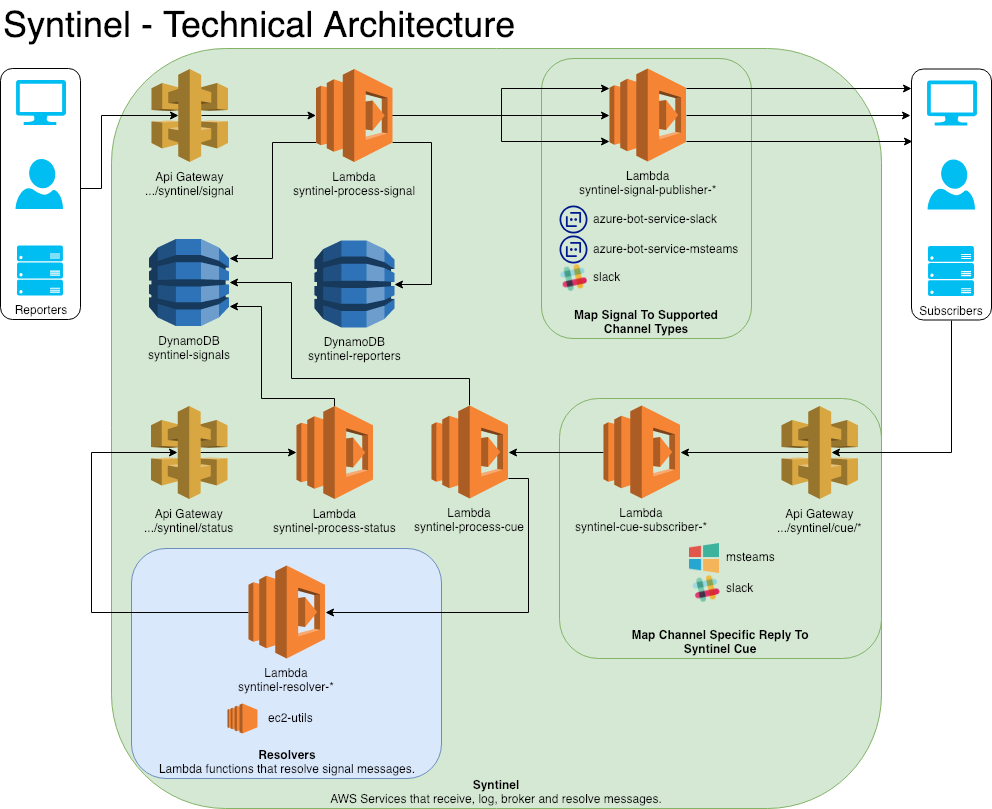
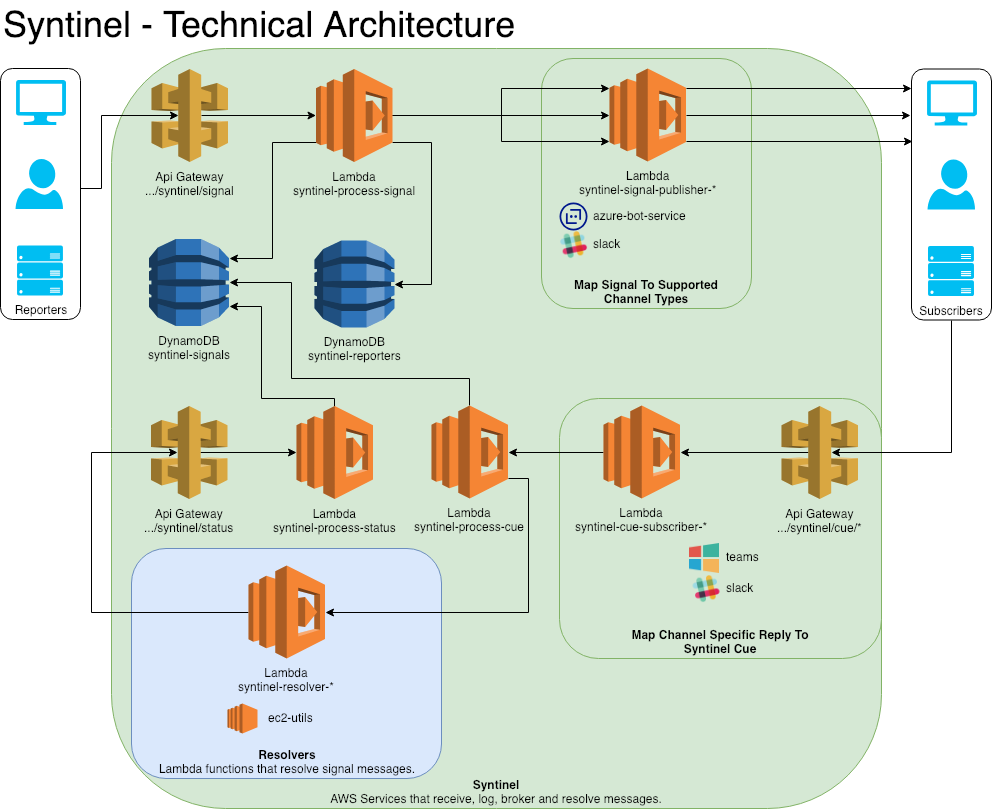
- Added updated PNG file for Techincal Architecture. - Updated AzureBotService Publisher To Create MSTeams Forms.

Changed region(s): [[0.5625, 0.2472, 0.7188, 0.4326], [0.7188, 0.6799, 0.7812, 0.7108]]

diff --git a/scripts/Mapping Layer/syntinel-signal-publisher-azure-bot-service.py b/scripts/Mapping Layer/syntinel-signal-publisher-azure-bot-service.py
@@ -15,7 +15,7 @@ def lambda_handler(event, context):
         token = channel.get('config', {}).get('bearerToken')
         target = channel.get('target')
         conversationId = getConversationId(token)
-        body = CreateSlackMessage(signalId, signal, target)
+        body = CreateAzureBotMessage(signalId, signal, target)
         botReply = sendMessage(conversationId, token, body)
 
     reply = {
@@ -57,31 +57,54 @@ def sendMessage(conversationId, token, body):
 
     return content
     
-def CreateSlackMessage(signalId, signal, recipient):
-    mainTitle = signal.get('name', "Alert") + " : " + signal.get('description')
-    
+def CreateAzureBotMessage(signalId, signal, recipient):
     message = {
         "type": "message",
         "from": {
             "id": signalId
         },
         "text": "notify " + recipient,
-        "value": {
-            "text": mainTitle,
-            "attachments": [],
-            "valueType": "application/json"
-        }
+        "valueType": "application/json"
     }
-    
-    cues = signal.get('cues', {})
-    attachments = message.get('value').get('attachments')
-    for cue in cues:
-        attachment = CreateAttachment(signalId, cue, cues.get(cue))
-        attachments.append(attachment)
+
+    targetArray = recipient.partition("@")
+    if len(targetArray) == 3:
+        channelType = targetArray[2].lower()
+    else:
+        raise Exception("Unable To Determine Channel Type For Azure Bot Service Recipient [" + recipient + "].") 
+
+    if channelType == 'slack':
+        value = CreateSlackMessage(signalId, signal, recipient)
+    elif channelType == 'msteams':
+        value = CreateTeamsMessage(signalId, signal, recipient)
+    else:
+        raise Exception("Unknown Channel Type [" + channelType + "].")
+
+    message.update( { 'value': value } )
 
     return message
     
-def CreateAttachment(signalId, cueId, cue):
+#########################################
+# Slack Methods
+#########################################
+
+def CreateSlackMessage(signalId, signal, recipient):
+    mainTitle = signal.get('name', "Alert") + " : " + signal.get('description')
+    
+    value = {
+        "text": mainTitle,
+        "attachments": []
+    }
+    
+    cues = signal.get('cues', {})
+    attachments = value.get('attachments')
+    for cue in cues:
+        attachment = CreateSlackAttachment(signalId, cue, cues.get(cue))
+        attachments.append(attachment)
+
+    return value
+    
+def CreateSlackAttachment(signalId, cueId, cue):
     cueTitle = cue.get('name', "Alert") + " : " + cue.get('description')
     
     attachment = {
@@ -92,12 +115,13 @@ def CreateAttachment(signalId, cueId, cue):
     }
     
     for action in cue.get('actions'):
-        attAction = CreateAction(action)
-        attachment.get('actions').append(attAction)
+        attAction = CreateSlackAction(action)
+        if attAction:
+            attachment.get('actions').append(attAction)
     
     return attachment
-    
-def CreateAction(action):
+
+def CreateSlackAction(action):
     newAction = {}
     
     name = action.get('name')
@@ -124,3 +148,146 @@ def CreateAction(action):
         newAction.update( { 'value': defaultValue } )
 
     return newAction
+    
+#########################################
+# Microsoft Teams Methods
+#########################################
+    
+def CreateTeamsMessage(signalId, signal, recipient):
+    mainTitle = signal.get('name', "Alert") + " : " + signal.get('description')
+    
+    value = {
+        "type": "AdaptiveCard",
+        "body": [
+            {
+                "type": "Container",
+                "separator": False,
+                "items": [
+                    {
+                        "type": "TextBlock",
+                        "size": "Medium",
+                        "weight": "Bolder",
+                        "text": signal.get('name', "Syntinel Signal Received.")
+                    },
+                    {
+                        "type": "TextBlock",
+                        "size": "Medium",
+                        "text": signal.get('description')
+                    }
+                ]
+            }
+        ],
+        "actions": [],
+        "$schema": "http://adaptivecards.io/schemas/adaptive-card.json",
+        "version": "1.0",
+        "fallbackText": "Version Not Supported."
+    }
+    
+    cues = signal.get('cues', {})
+    actions = value.get('actions')
+    for cue in cues:
+        card = CreateTeamsCard(signalId, cue, cues.get(cue))
+        if len(cues) == 1:
+            # Create Single Cue In Main Body of Message
+            cardBody = card.get('body', [])
+            for cardBodyItem in cardBody:
+                value.get('body').append(cardBodyItem)
+                
+            cardActions = card.get('actions', [])
+            for cardActionItem in cardActions:
+                value.get('actions').append(cardActionItem)
+        else:
+            # Create Each Cue As An Action.ShowCard Button
+            newAction = {
+                "type": "Action.ShowCard",
+                "title": cue,
+                "card": card
+            }
+            value.get('actions').append(newAction)
+
+    return value
+    
+def CreateTeamsCard(signalId, cueId, cue):
+    card = {
+        "type": "AdaptiveCard",
+        "body": [
+            {
+                "type": "Container",
+                "separator": True,
+                "items": [
+                    {
+                        "type": "TextBlock",
+                        "size": "Medium",
+                        "weight": "Bolder",
+                        "text": cue.get('name'),
+                        "wrap": True
+                    },
+                    {
+                        "type": "TextBlock",
+                        "size": "Medium",
+                        "text": cue.get('description'),
+                        "wrap": True
+                    }
+                ]
+            }
+        ],
+        "actions": []
+    }
+    
+    actions = cue.get('actions', {})
+    for action in actions:
+        type = action.get('type')
+        if type == "button":
+            myAction = {
+                "type": "Action.Submit",
+                "id": "action",
+                "title": action.get('name'),
+                "data": {
+                    "callback_id": signalId + "|" + cueId,
+                    "action": action.get('defaultValue')
+                }
+            }
+            card.get('actions').append(myAction)
+        elif type == "choice":
+            myAction = {
+                "type": "Action.ShowCard",
+                "title": action.get('name'),
+                "card": {
+                    "type": "AdaptiveCard",
+                    "body": [],
+                    "actions": [
+                        {
+                            "type": "Action.Submit",
+                            "title": "Submit",
+                            "data": {
+                                "callback_id": signalId + "|" + cueId
+                            }
+                        }
+                    ]
+                }
+            }
+
+            myBody = {
+                "type": "Container",
+                "separator": True,
+                "items": [
+                    {
+                        "type": "Input.ChoiceSet",
+                        "id": "action",
+                        "choices": []
+                    }
+                ]
+            }
+            
+            for choice in action.get('values', []):
+                for kvp in choice:
+                    myChoice = {
+                        "title": choice.get(kvp),
+                        "value": kvp
+                    }
+                myBody.get('items')[0].get('choices').append(myChoice)
+
+            myAction.get('card').get('body').append(myBody)
+            card.get('actions').append(myAction)
+            
+    return card
